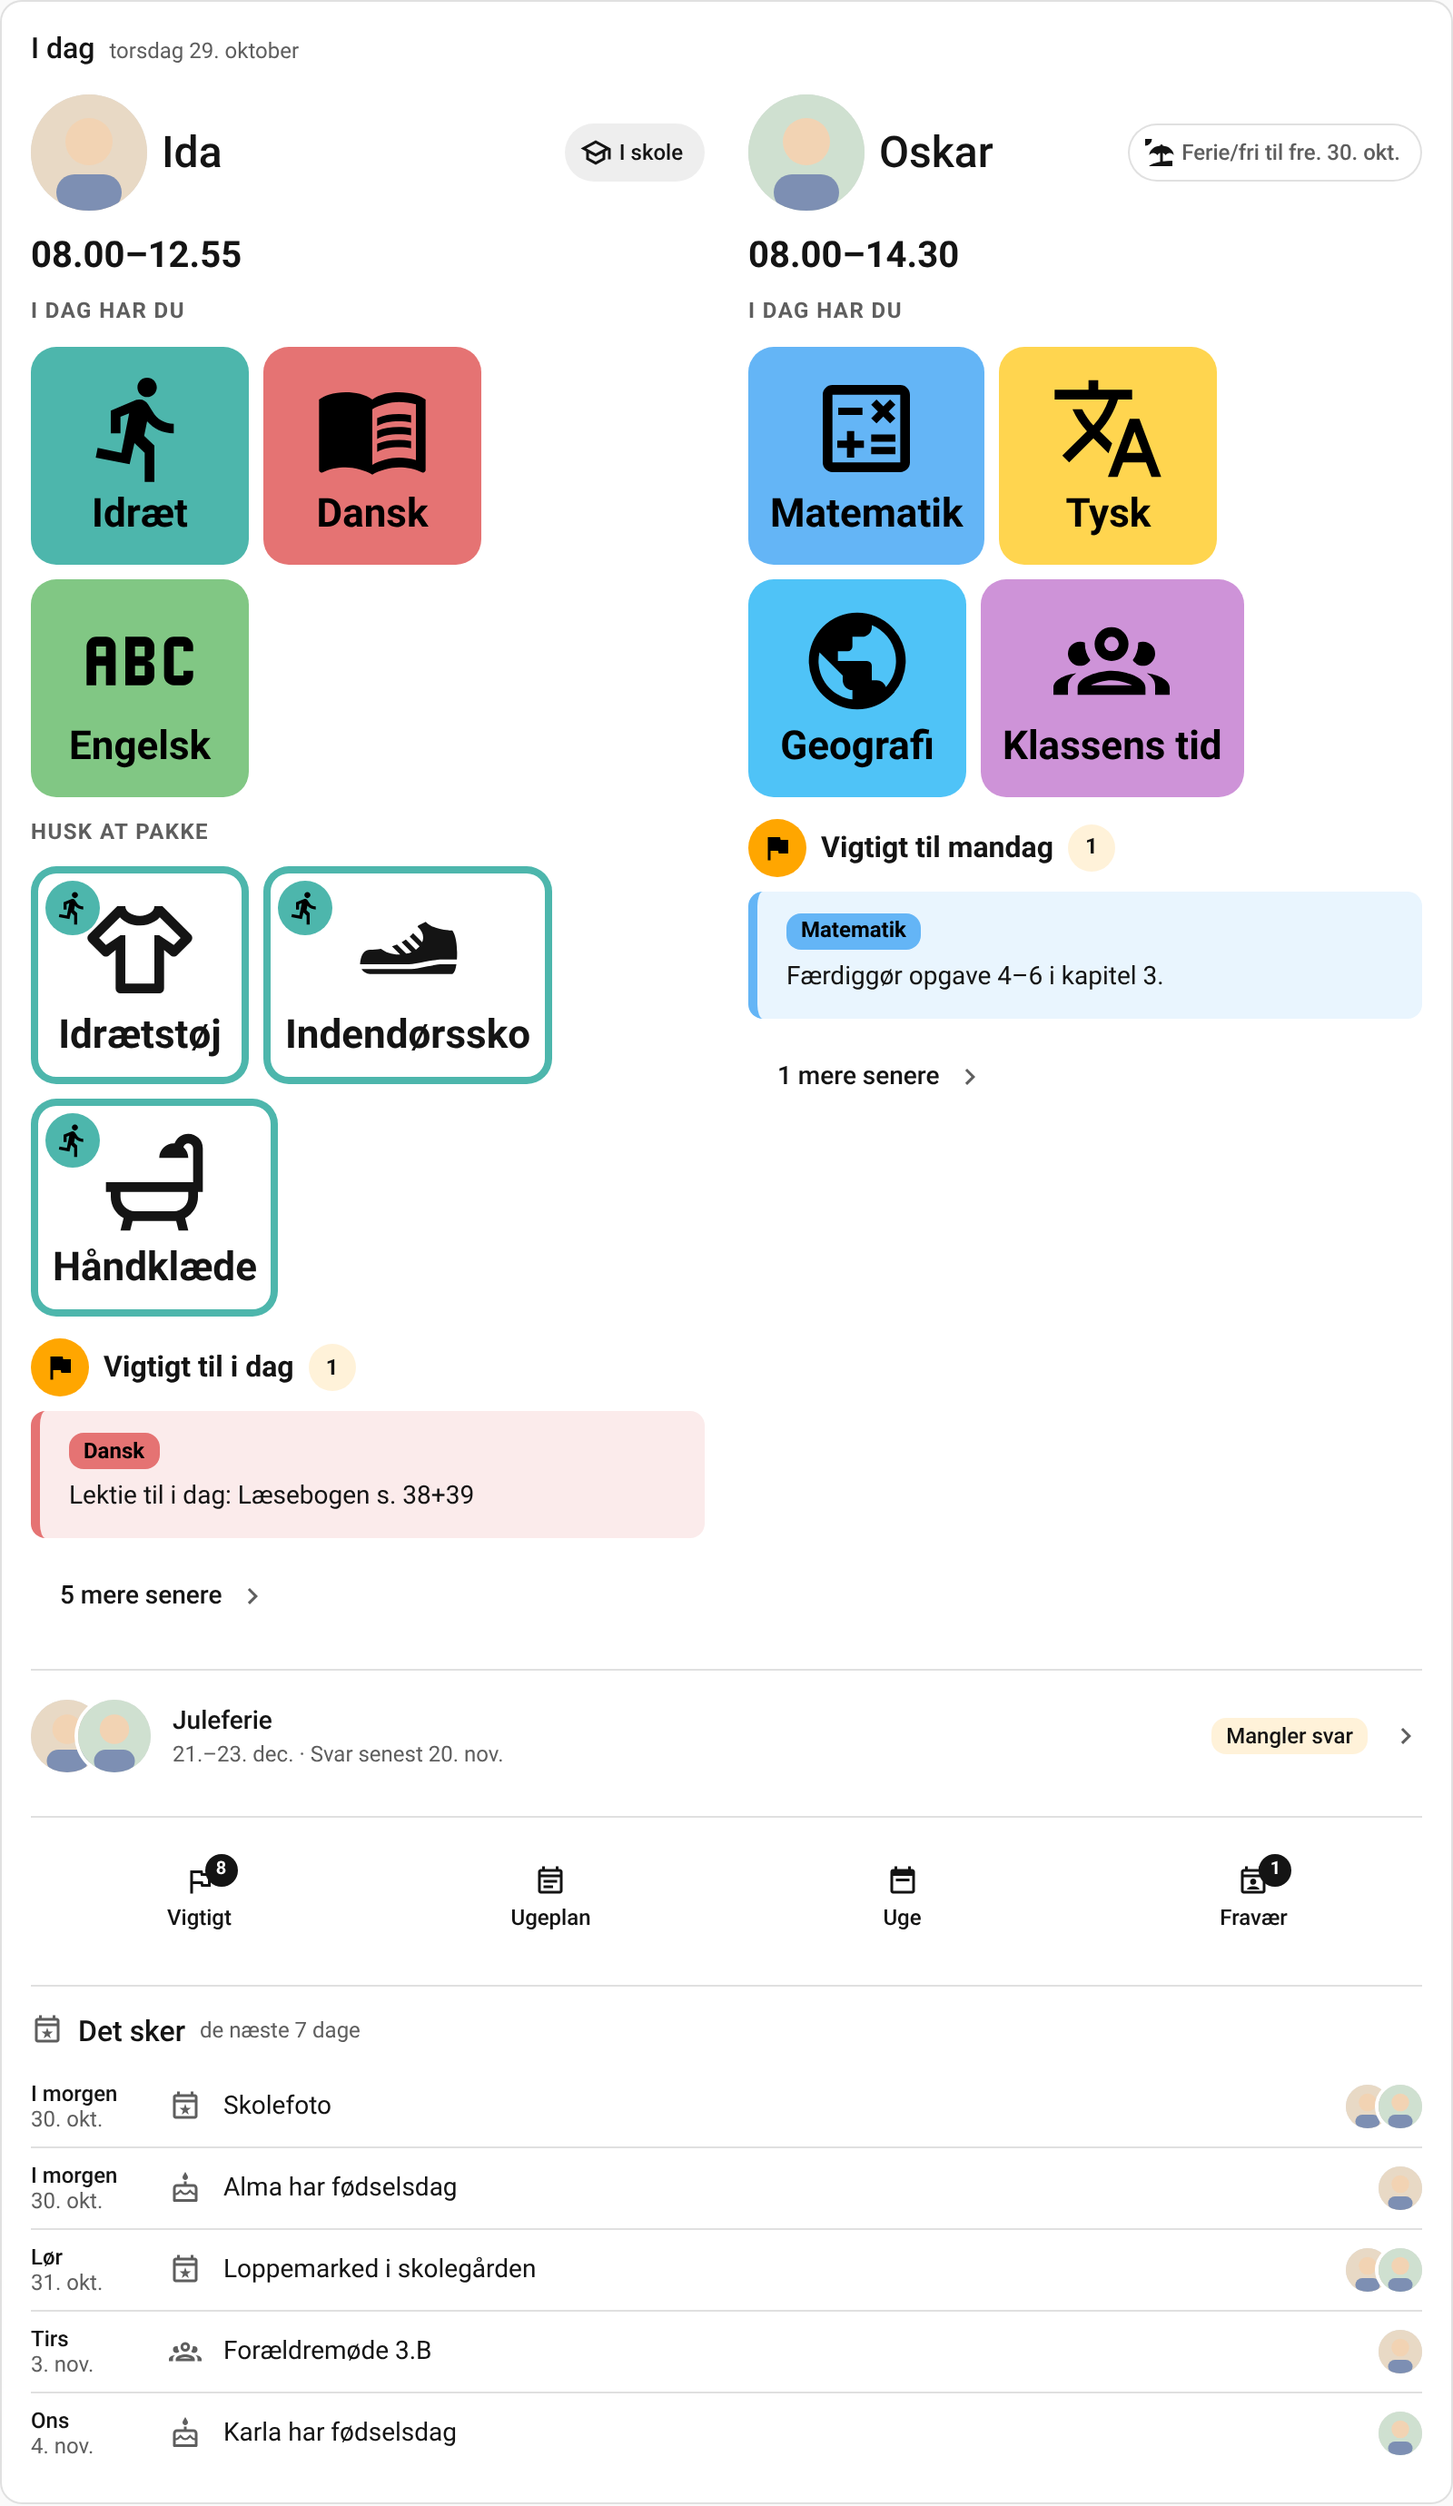
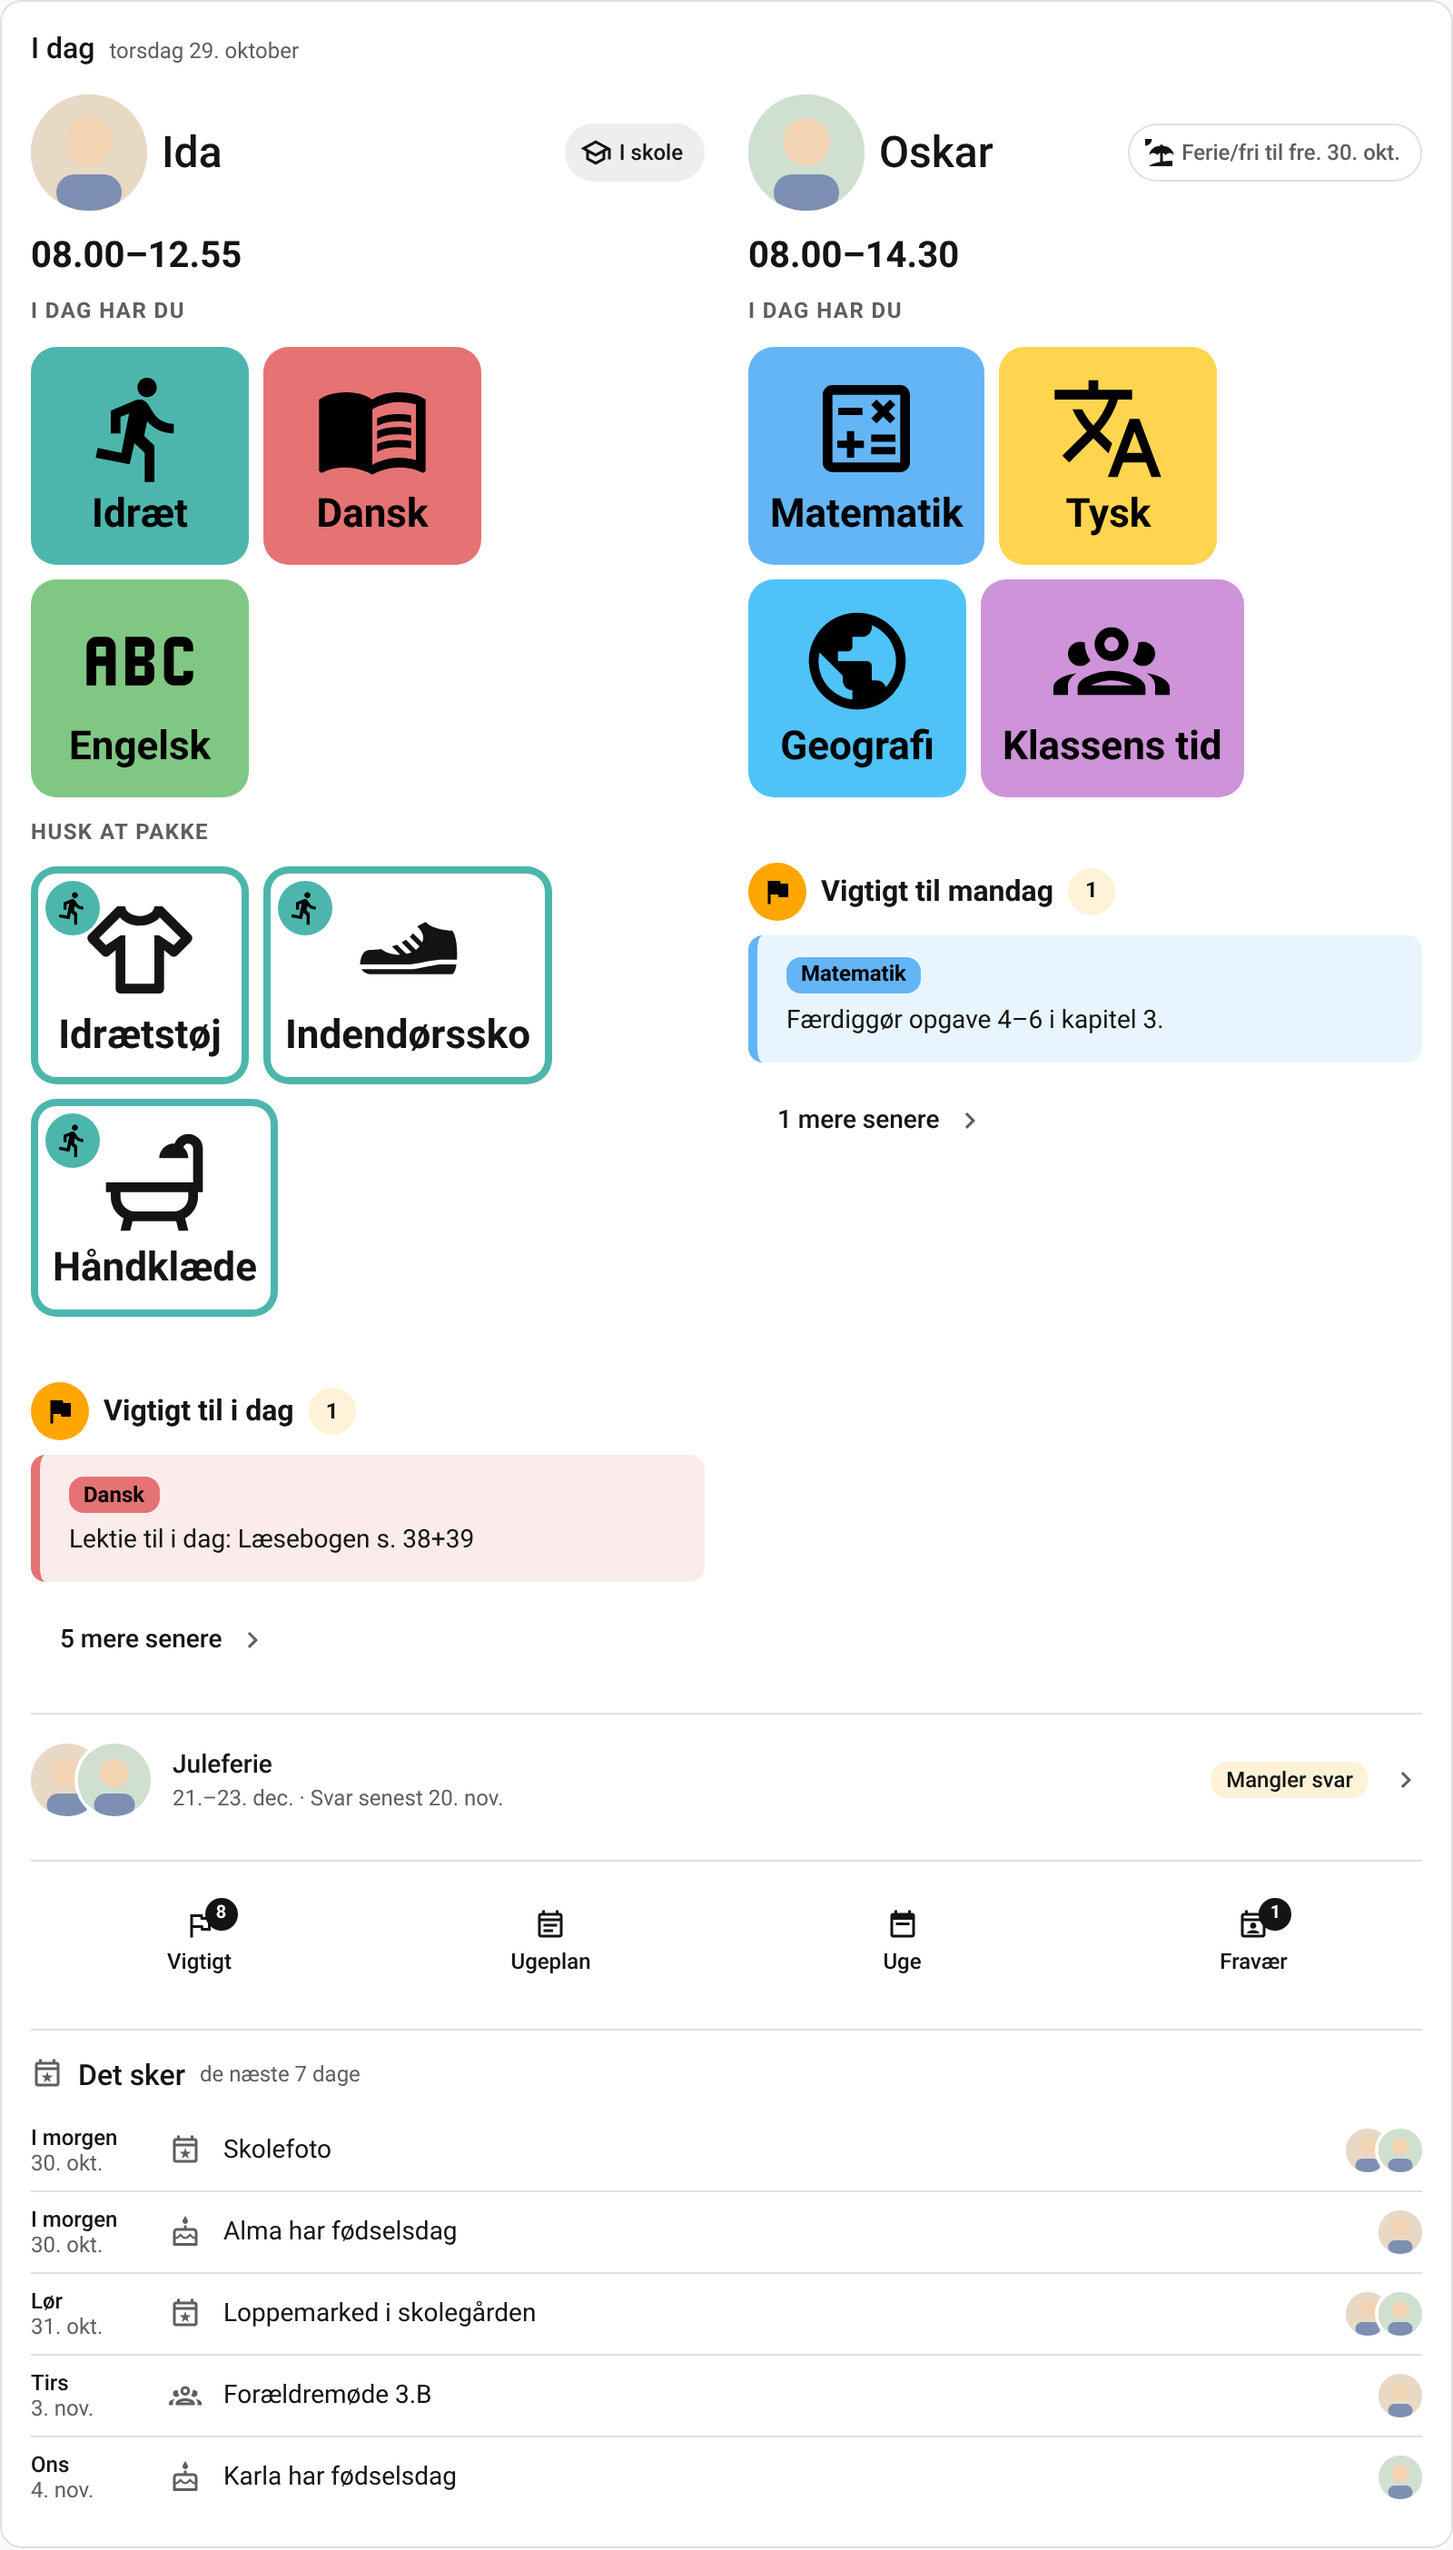
Give what is important room from the subjects and what to bring
Claude-Session: https://claude.ai/code/session_01SqQDNZBDdSDZgAEZdkAgqw

diff --git a/src/ui/styles.ts b/src/ui/styles.ts
@@ -2810,6 +2810,11 @@ export const family = css`
     flex-direction: column;
     gap: var(--aula-space-2);
   }
+  /* The subjects and what to bring belong together; what is important is the family's own, and
+     stands apart from them. */
+  :is(.ov-panel, .ov-col) > :is(.ov-important-full, .board-important) {
+    margin-top: var(--aula-space-6);
+  }
   .ov-important-head {
     display: flex;
     align-items: center;
